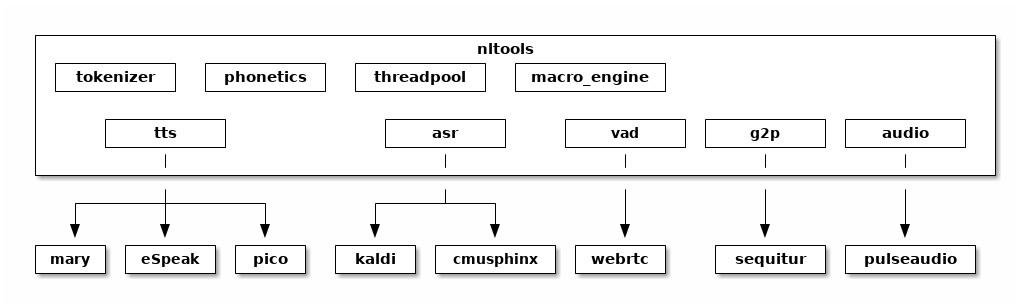
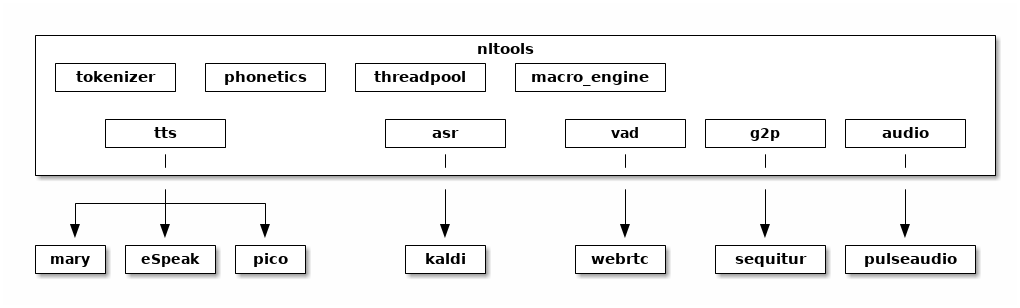
drop CMU Sphinx support

diff --git a/nltools/asr.py b/nltools/asr.py
@@ -2,7 +2,7 @@
 # -*- coding: utf-8 -*- 
 
 #
-# Copyright 2017, 2018 Guenter Bartsch
+# Copyright 2017, 2018, 2019 Guenter Bartsch
 #
 # Licensed under the Apache License, Version 2.0 (the "License");
 # you may not use this file except in compliance with the License.
@@ -19,7 +19,7 @@
 
 #
 # Abstraction layer for multiple speech recognition engines,
-# kaldi-asr and pocketsphinx at the moment
+# only kaldi-asr at the moment
 #
 
 import traceback
@@ -34,10 +34,9 @@ from base64             import b64encode
 from kaldiasr.nnet3     import KaldiNNet3OnlineModel, KaldiNNet3OnlineDecoder
 
 ASR_ENGINE_NNET3        = 'kaldi-nnet3'
-ASR_ENGINE_POCKETSPHINX = 'pocketsphinx'
 
 DEFAULT_ENGINE          = ASR_ENGINE_NNET3
-DEFAULT_MODEL_DIR       = 'models/kaldi-generic-en-tdnn_sp-latest'
+DEFAULT_MODEL_DIR       = 'models/kaldi-generic-en-tdnn_f-latest'
 DEFAULT_MODEL_NAME      = 'model'
 DEFAULT_STREAM_ID       = '__default__'
 DEFAULT_SAMPLE_RATE     = 16000
@@ -73,50 +72,6 @@ class ASR(object):
                                                        frame_subsampling_factor = kaldi_frame_subsampling_factor)
             logging.debug ('ASR model loaded. took %fs' % (time.time() - start_time))
 
-        elif self._engine == ASR_ENGINE_POCKETSPHINX:
-
-            import pocketsphinx
-            self.ps_config = pocketsphinx.Decoder.default_config()
-
-            # determine CFG_N_TIED_STATES, CFG_WAVFILE_SRATE
-            # cmusphinx-cont-voxforge-en-latest/etc/sphinx_train.cfg
-            traincfg_fn        = '%s/etc/sphinx_train.cfg' % model_dir
-            n_tied_states      = 6000
-            self.ps_samplerate = 16000
-            with open (traincfg_fn, 'r') as traincfg_f:
-                for line in traincfg_f:
-                    if not line:
-                        break
-                    # $CFG_N_TIED_STATES = 6000;
-                    if 'CFG_N_TIED_STATES' in line:
-                        # logging.debug ('parsing train cfg line %s' % line)
-                        m = re.match (r"\$CFG_N_TIED_STATES\s+=\s+([0-9]+)\s*;", line.strip())
-                        if m:
-                            n_tied_states = int(m.group(1))
-                            # logging.debug ('matched, n_tied_states=%d' % n_tied_states)
-
-                    # $CFG_WAVFILE_SRATE = 16000.0;
-                    if 'CFG_WAVFILE_SRATE' in line:
-                        m = re.match (r"\$CFG_WAVFILE_SRATE\s+=\s+([0-9.]+)\s*;", line.strip())
-                        if m:
-                            self.ps_samplerate = int(float(m.group(1)))
-                            
-            self.ps_config.set_string('-hmm', '%s/model_parameters/%s.cd_cont_%d' % (model_dir, model_name, n_tied_states))
-            self.ps_config.set_float ('-lw', 10)
-            self.ps_config.set_string('-feat', '1s_c_d_dd')
-            self.ps_config.set_float ('-beam', 1e-80)
-            self.ps_config.set_float ('-wbeam', 1e-40)
-            self.ps_config.set_string('-dict', '%s/etc/%s.dic' % (model_dir, model_name))
-            self.ps_config.set_float ('-wip', 0.2)
-            self.ps_config.set_string('-agc', 'none')
-            self.ps_config.set_string('-varnorm', 'no')
-            self.ps_config.set_string('-cmn', 'current')
-            self.ps_config.set_string('-lm', '%s/etc/%s.lm.bin' % (model_dir, model_name))
-
-            self.ps_config.set_string('-logfn', "/dev/null")
-
-            self.asr_in_utt = {} # stream_id -> Boolean
-
         else:
             raise Exception ('unknown ASR engine: %s' % self._engine)
 
@@ -132,36 +87,6 @@ class ASR(object):
 
             hstr, confidence = decoder.get_decoded_string()
             hstr = hstr.strip()
-
-        elif self._engine == ASR_ENGINE_POCKETSPHINX:
-
-            if sample_rate != self.ps_samplerate:
-                raise Exception ('decode: samplerate does not match model: %d vs %d' % (sample_rate, self.ps_samplerate))
-
-            if not stream_id in self.asr_decoders:
-                import pocketsphinx
-                self.asr_decoders[stream_id] = pocketsphinx.Decoder(self.ps_config)
-                self.asr_in_utt[stream_id] = False
-
-            decoder = self.asr_decoders[stream_id]
-            if not self.asr_in_utt[stream_id]:
-                decoder.start_utt()
-                self.asr_in_utt[stream_id] = True
-
-            audios = struct.pack('<%dh' % len(audio), *audio)
-
-            decoder.process_raw(audios, False, False)
-
-            if not do_finalize:
-                return None, 0.0
-
-            decoder.end_utt()
-            self.asr_in_utt[stream_id] = False
-
-            hypothesis = decoder.hyp()
-            logmath = decoder.get_logmath()
-            hstr = hypothesis.hypstr.decode('utf8').strip()
-            confidence = logmath.exp(hypothesis.prob)
 
         else:
             raise Exception ('unknown ASR engine: %s' % self._engine)

diff --git a/tests/test_asr.py b/tests/test_asr.py
@@ -2,7 +2,7 @@
 # -*- coding: utf-8 -*- 
 
 #
-# Copyright 2014, 2016, 2017, 2018 Guenter Bartsch
+# Copyright 2014, 2016, 2017, 2018, 2019 Guenter Bartsch
 #
 # Licensed under the Apache License, Version 2.0 (the "License");
 # you may not use this file except in compliance with the License.
@@ -22,15 +22,11 @@ import logging
 import wave
 import struct
 
-from nltools.asr import ASR, ASR_ENGINE_NNET3, ASR_ENGINE_POCKETSPHINX
+from nltools.asr import ASR, ASR_ENGINE_NNET3
 from nltools     import misc
 
 TEST_WAVE_EN       = 'tests/foo.wav'
-TEST_WAVE_EN_TS    = 'ah indeed'
-TEST_WAVE_EN_TS_PS = 'aha in dayton'
-
-POCKETSPHINX_MODELDIR  = 'models/cmusphinx-cont-generic-en-latest'
-POCKETSPHINX_MODELNAME = 'voxforge'
+TEST_WAVE_EN_TS    = 'this no longer appears to be the case'
 
 class TestASR (unittest.TestCase):
 
@@ -73,50 +69,6 @@ class TestASR (unittest.TestCase):
         asr = ASR(engine = ASR_ENGINE_NNET3)
         s, l = asr.decode_wav_file(TEST_WAVE_EN)
         self.assertEqual(s.strip(), TEST_WAVE_EN_TS)
-
-    def test_asr_pocketsphinx(self):
-
-        asr = ASR(engine = ASR_ENGINE_POCKETSPHINX, model_dir = POCKETSPHINX_MODELDIR, model_name = POCKETSPHINX_MODELNAME)
-
-        wavf = wave.open(TEST_WAVE_EN, 'rb')
-
-        # check format
-        self.assertEqual(wavf.getnchannels(), 1)
-        self.assertEqual(wavf.getsampwidth(), 2)
-
-        # process file in 250ms chunks
-
-        chunk_frames = 250 * wavf.getframerate() / 1000
-        tot_frames   = wavf.getnframes()
-
-        num_frames = 0
-        while num_frames < tot_frames:
-
-            finalize = False
-            if (num_frames + chunk_frames) < tot_frames:
-                nframes = chunk_frames
-            else:
-                nframes = tot_frames - num_frames
-                finalize = True
-
-            frames = wavf.readframes(nframes)
-            num_frames += nframes
-            samples = struct.unpack_from('<%dh' % nframes, frames)
-
-            s, l = asr.decode(samples, finalize, wavf.getframerate())
-
-            if not finalize:
-                self.assertEqual(s, None)
-
-        wavf.close()
-
-        self.assertEqual(s.strip(), TEST_WAVE_EN_TS_PS)
-
-    def test_asr_pocketsphinx_wavefile(self):
-        asr = ASR(engine = ASR_ENGINE_POCKETSPHINX, model_dir = POCKETSPHINX_MODELDIR, model_name = POCKETSPHINX_MODELNAME)
-        s, l = asr.decode_wav_file(TEST_WAVE_EN)
-        self.assertEqual(s.strip(), TEST_WAVE_EN_TS_PS)
-
 
 if __name__ == "__main__":
 

diff --git a/setup.py b/setup.py
@@ -2,7 +2,7 @@ from setuptools import setup
 
 setup(
     name                 = 'py-nltools',
-    version              = '0.4.0',
+    version              = '0.5.0',
     description          = 'A collection of basic python modules for spoken natural language processing',
     long_description     = open('README.adoc').read(),
     author               = 'Guenter Bartsch',
@@ -12,7 +12,7 @@ setup(
     url                  = 'https://github.com/gooofy/py-nltools',
     packages             = ['nltools'],
     install_requires     = [
-                            'num2words', 'py-marytts', 'py-picotts', 'py-espeak-ng', 'pocketsphinx', 'py-kaldi-asr', 'numpy', 'webrtcvad', 'setproctitle'
+                            'num2words', 'py-marytts', 'py-picotts', 'py-espeak-ng', 'py-kaldi-asr', 'numpy', 'webrtcvad', 'setproctitle'
                            ],
     classifiers          = [
                                'Operating System :: POSIX :: Linux',
